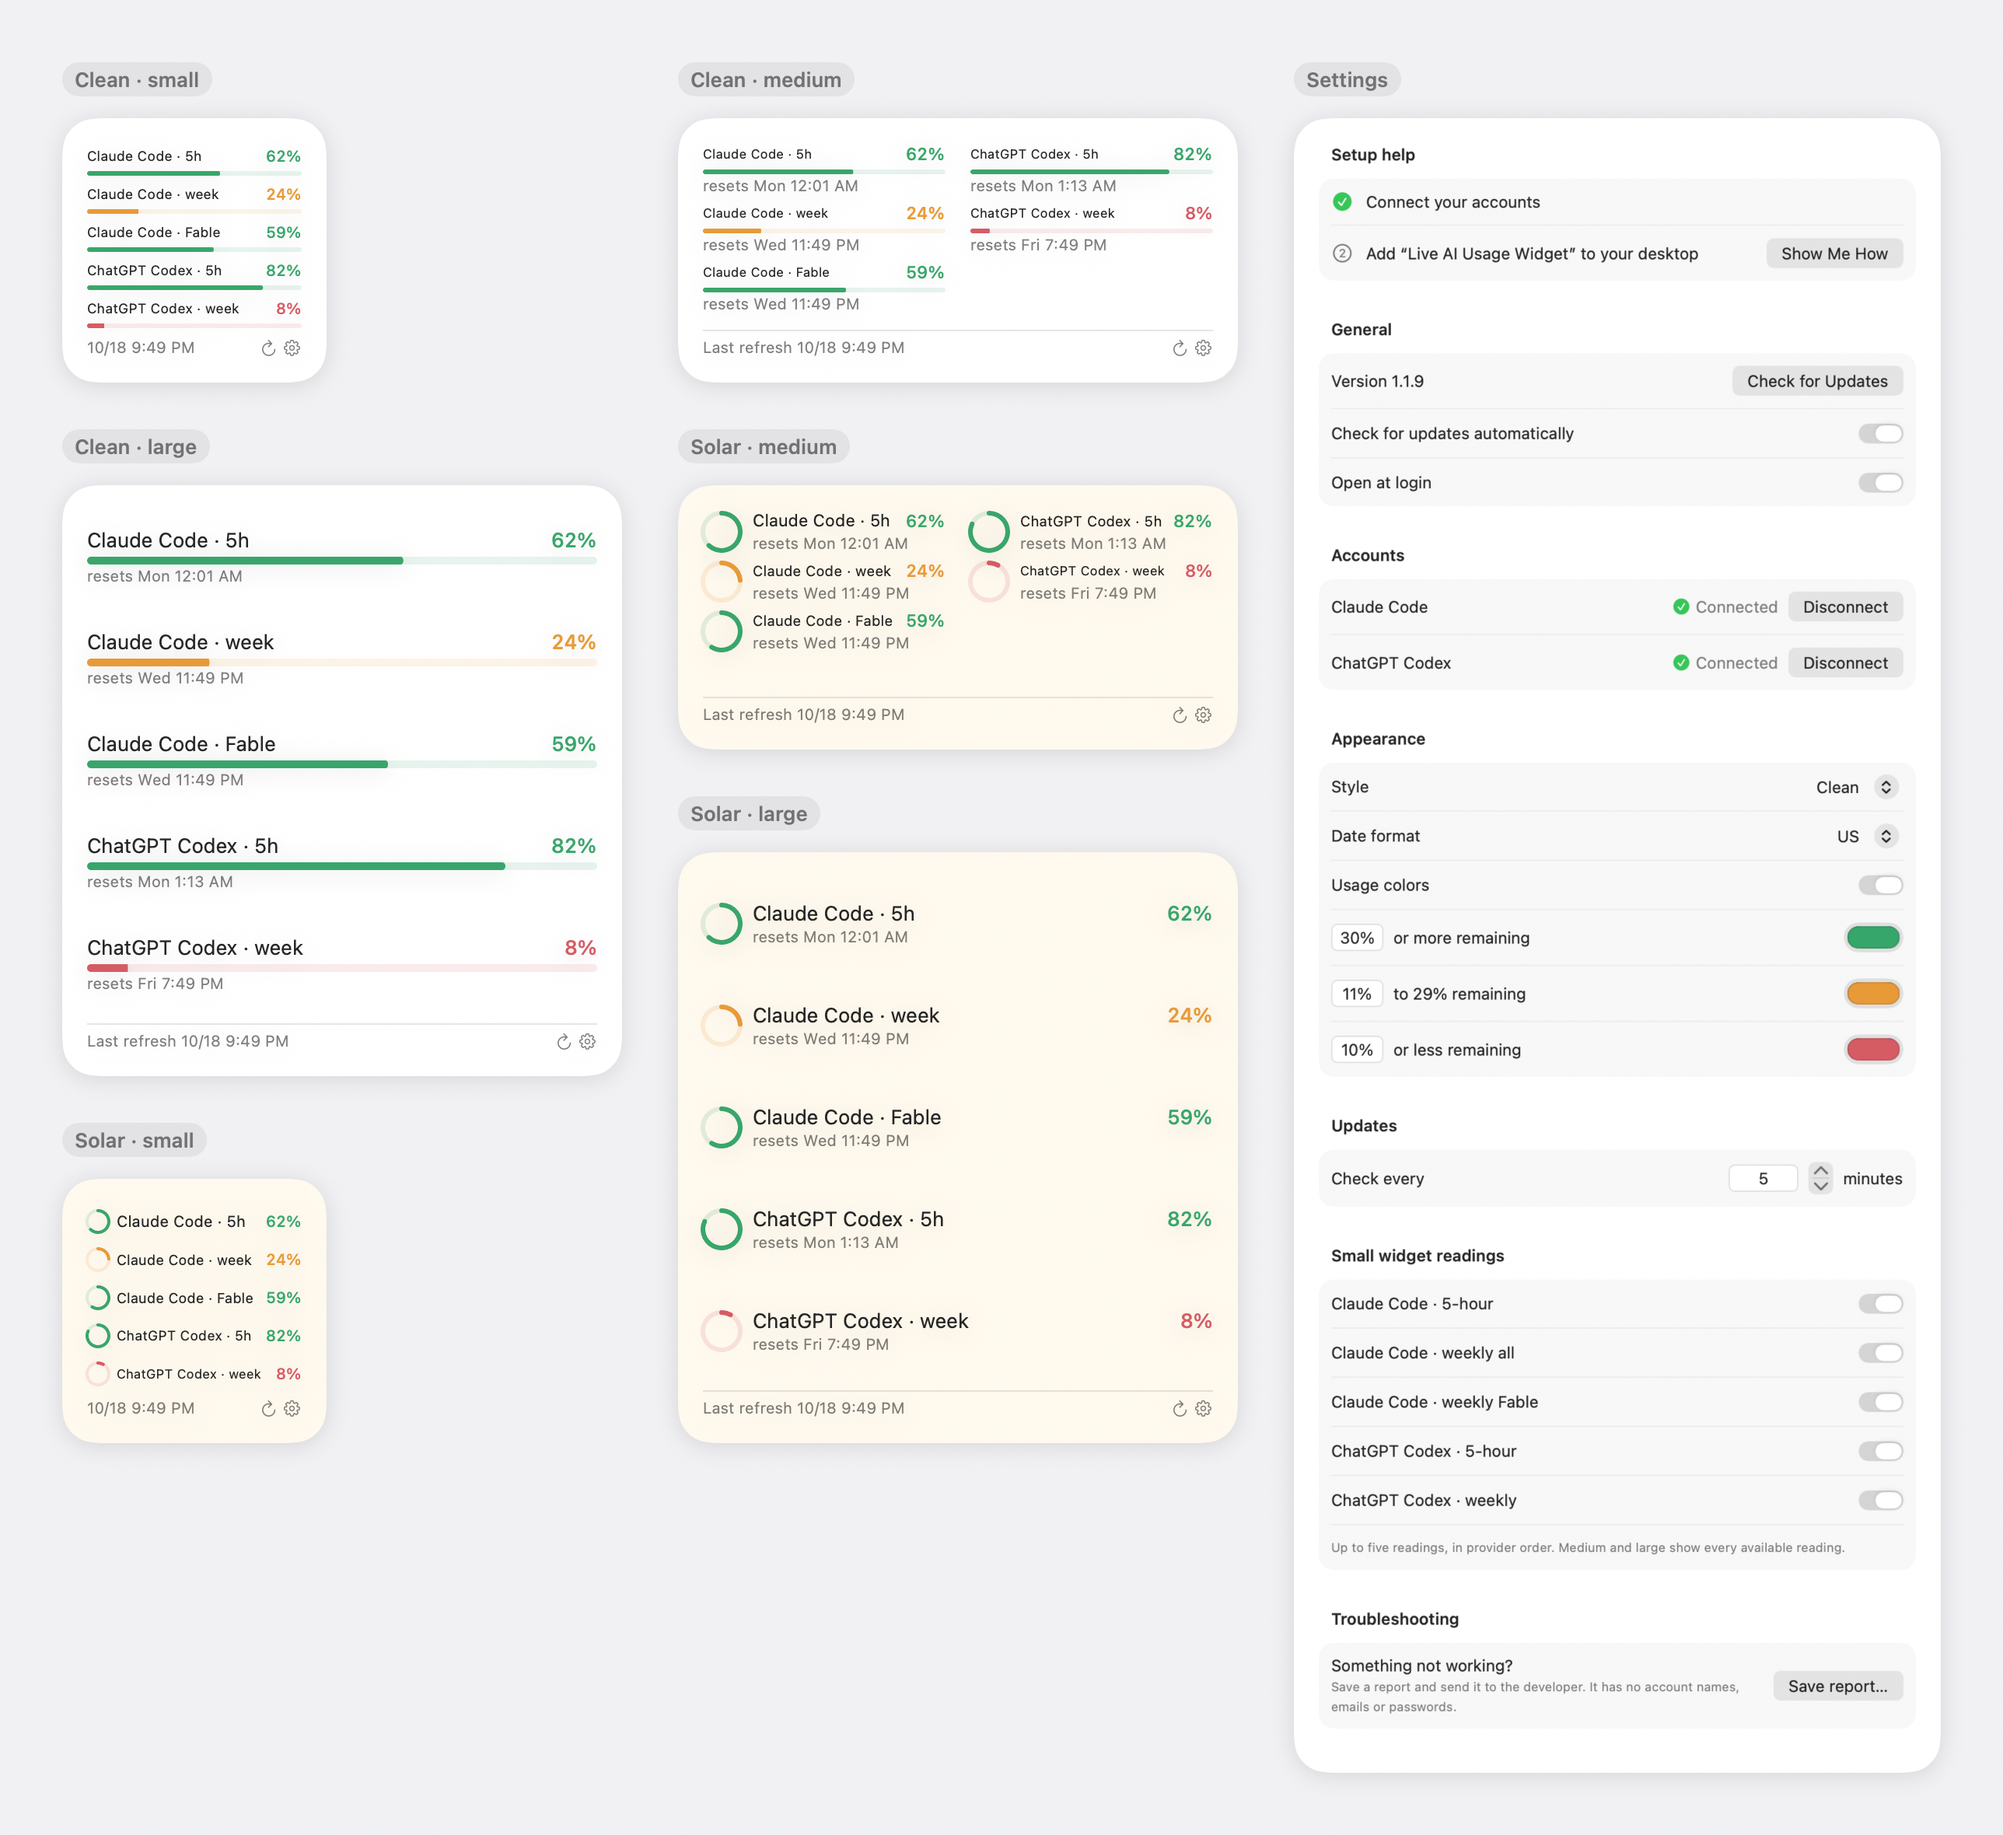
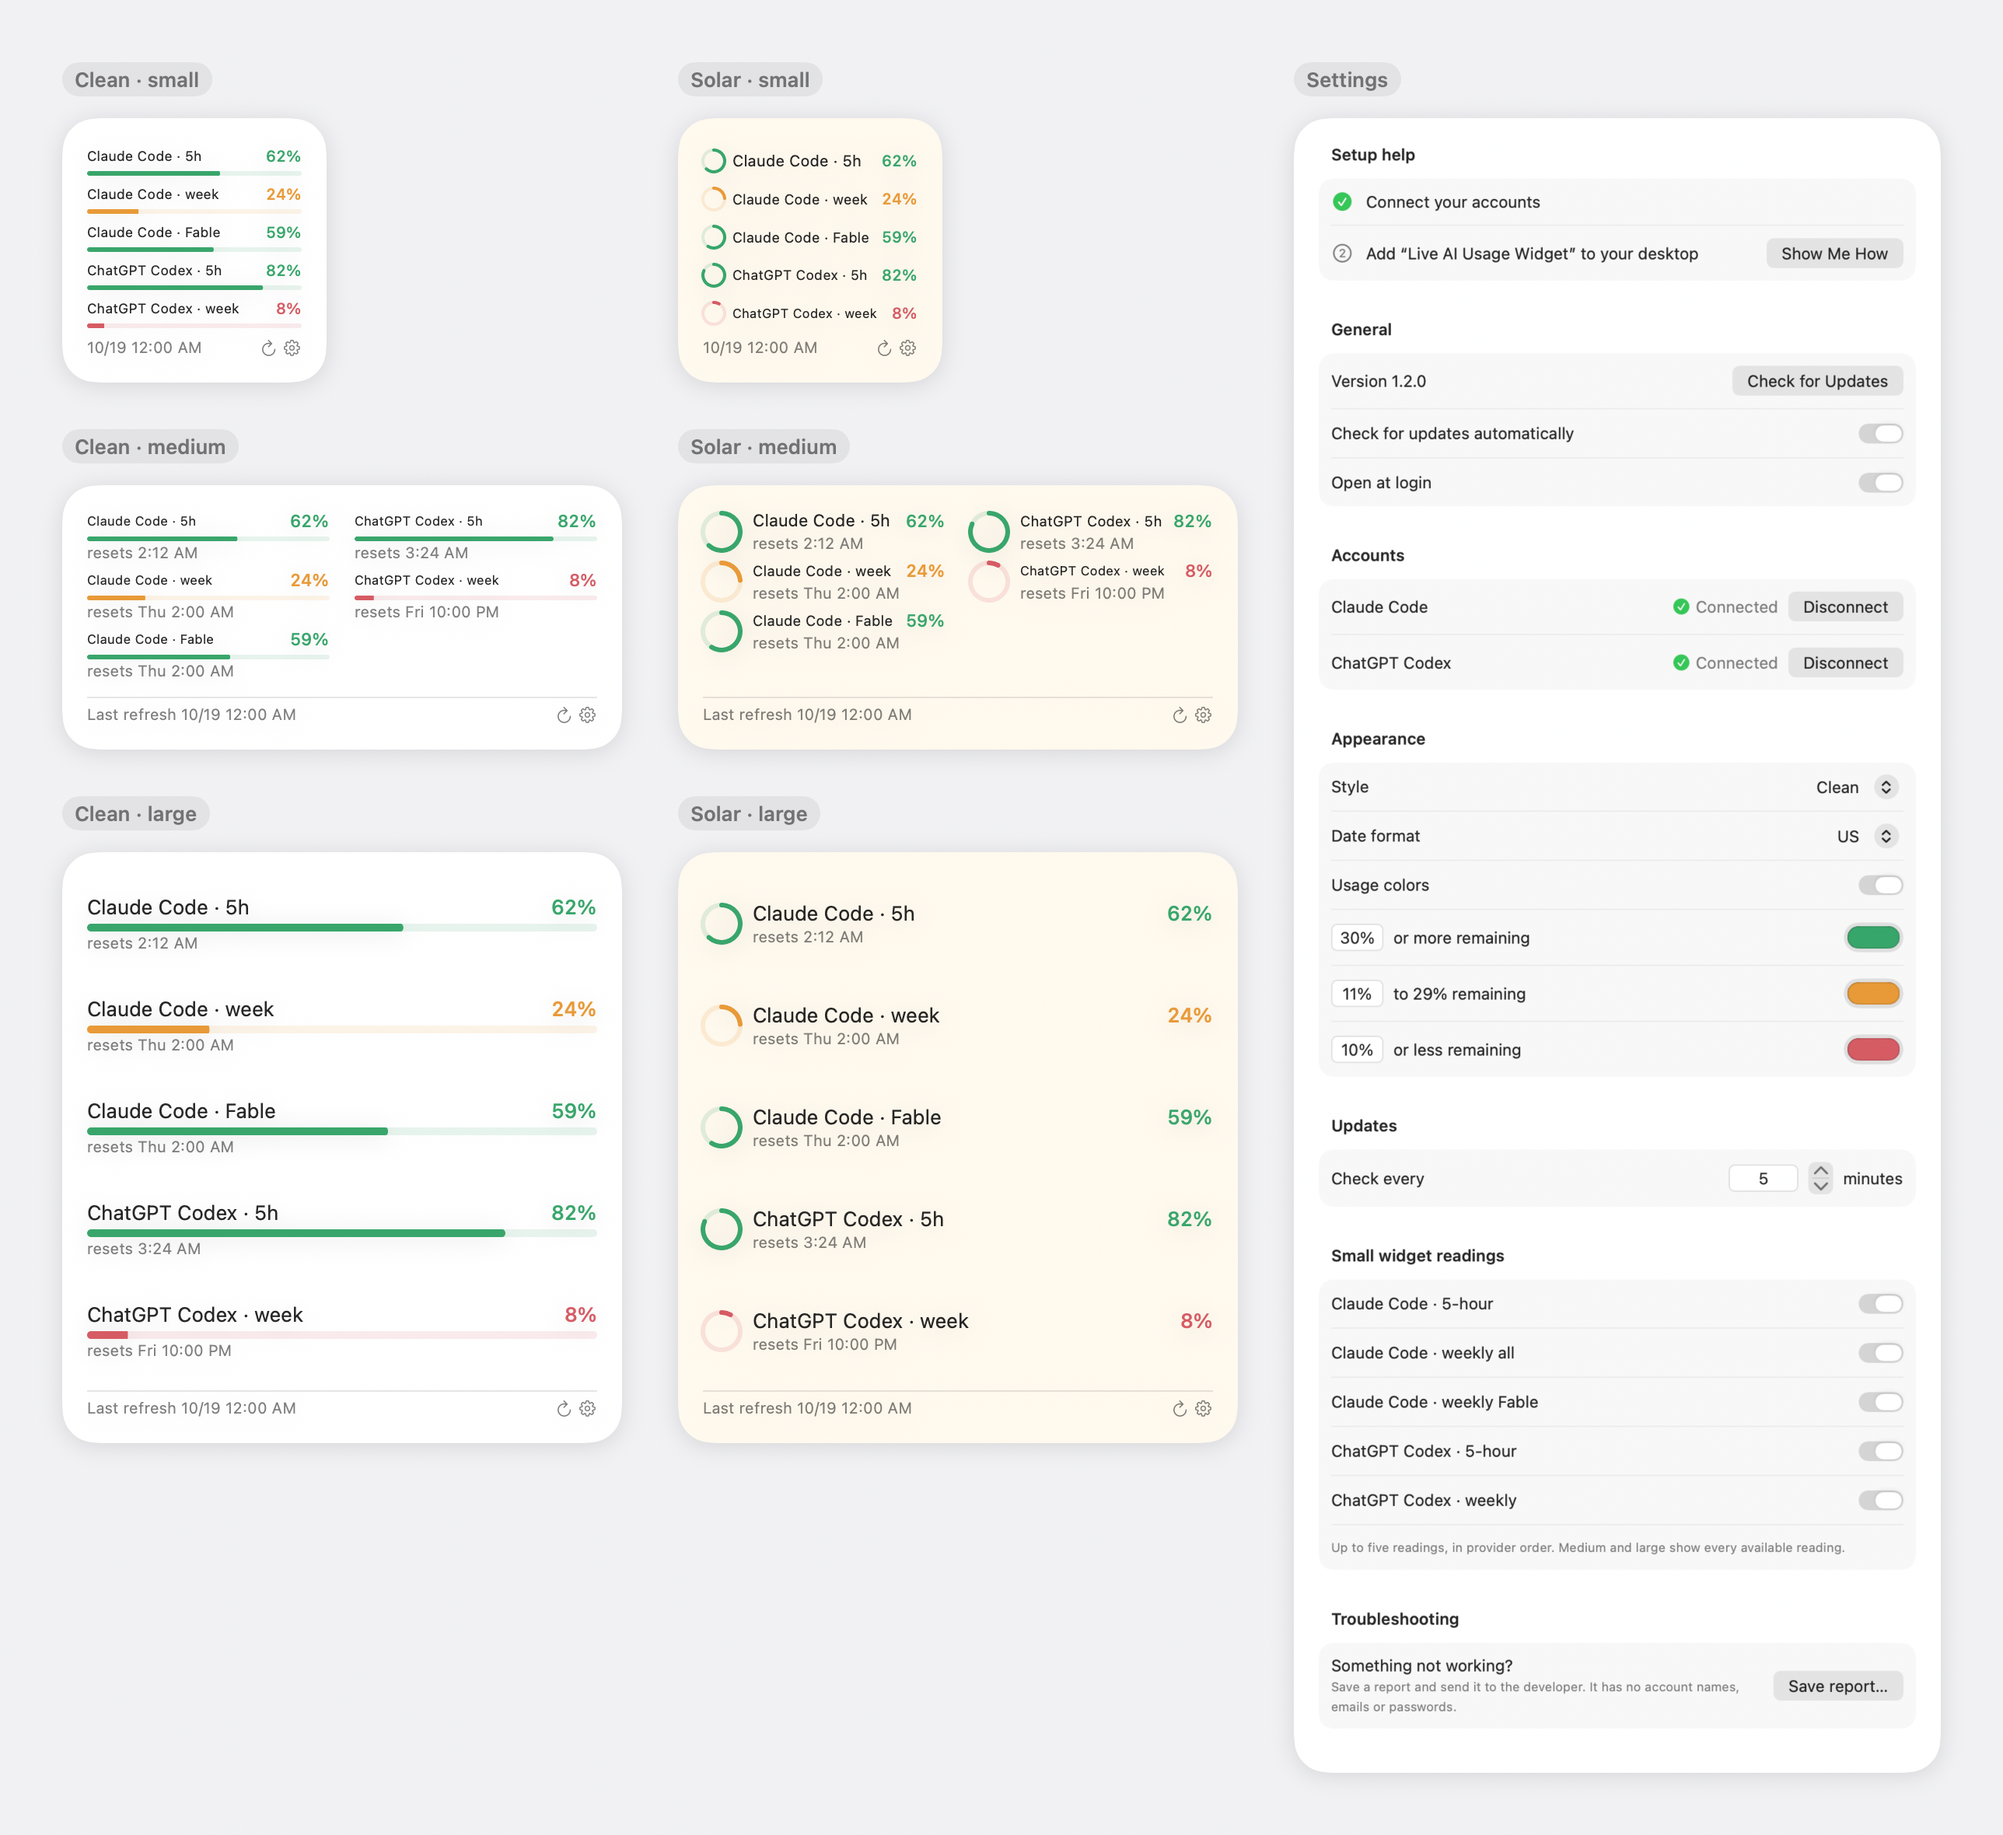
Version 1.2.0: US dates by default; README picture by style

diff --git a/tests/RenderOverview.swift b/tests/RenderOverview.swift
@@ -73,15 +73,13 @@ import SwiftUI
         let settingsImage = NSImage(size: host.bounds.size); settingsImage.addRepresentation(rep)
 
         let page = HStack(alignment: .top, spacing: 36) {
-            VStack(alignment: .leading, spacing: 30) {
-                labeled("Clean · small", widget("clean", "small"))
-                labeled("Clean · large", widget("clean", "large"))
-                labeled("Solar · small", widget("solar", "small"))
-            }.frame(width: 360, alignment: .leading)
-            VStack(alignment: .leading, spacing: 30) {
-                labeled("Clean · medium", widget("clean", "medium"))
-                labeled("Solar · medium", widget("solar", "medium"))
-                labeled("Solar · large", widget("solar", "large"))
+            // One column per style: small, medium, large.
+            ForEach(["Clean", "Solar"], id: \.self) { style in
+                VStack(alignment: .leading, spacing: 30) {
+                    labeled(style + " · small", widget(style.lowercased(), "small"))
+                    labeled(style + " · medium", widget(style.lowercased(), "medium"))
+                    labeled(style + " · large", widget(style.lowercased(), "large"))
+                }.frame(width: 360, alignment: .leading)
             }
             labeled("Settings", Image(nsImage: settingsImage).resizable().frame(width: 520 * 0.8, height: settingsHeight * 0.8).clipShape(RoundedRectangle(cornerRadius: 22, style: .continuous))
                 .shadow(color: .black.opacity(0.12), radius: 8, y: 2))

diff --git a/Shared/Settings.swift b/Shared/Settings.swift
@@ -4,7 +4,7 @@ import SwiftUI
 struct WidgetSettings: Codable, Equatable {
     var enabled: [String] = []
     var generation = "initial"
-    var usDates = false
+    var usDates = true
     var usageColors = true
     var highThreshold = 30.0
     var lowThreshold = 10.0
@@ -22,7 +22,7 @@ struct WidgetSettings: Codable, Equatable {
         let c = try decoder.container(keyedBy: CodingKeys.self)
         enabled = (try c.decodeIfPresent([String].self, forKey: .enabled) ?? []).filter { ["claude", "codex"].contains($0) }
         generation = try c.decodeIfPresent(String.self, forKey: .generation) ?? "initial"
-        usDates = try c.decodeIfPresent(Bool.self, forKey: .usDates) ?? false
+        usDates = try c.decodeIfPresent(Bool.self, forKey: .usDates) ?? true
         usageColors = try c.decodeIfPresent(Bool.self, forKey: .usageColors) ?? true
         highThreshold = try c.decodeIfPresent(Double.self, forKey: .highThreshold) ?? 30
         lowThreshold = try c.decodeIfPresent(Double.self, forKey: .lowThreshold) ?? 10

diff --git a/Helper/Reader.swift b/Helper/Reader.swift
@@ -179,7 +179,7 @@ enum UsageReader {
     static func codex(directory: URL, binary: String? = nil, timeout: Double = 15) throws -> [String: Any] {
         let child = try ChildProcess(binary: binary ?? find("codex"), arguments: ["app-server", "--listen", "stdio://"], directory: directory.path)
         defer { child.stop() }
-        try child.sendJSON(["id": 0, "method": "initialize", "params": ["clientInfo": ["name": "live_ai_usage_widget", "title": "Live AI Usage Widget", "version": "1.1.9"]]])
+        try child.sendJSON(["id": 0, "method": "initialize", "params": ["clientInfo": ["name": "live_ai_usage_widget", "title": "Live AI Usage Widget", "version": "1.2.0"]]])
         let start = ProcessInfo.processInfo.systemUptime
         var pending = Data(), total = 0, initialized = false
         while ProcessInfo.processInfo.systemUptime - start < timeout {

diff --git a/App/UsageApp.swift b/App/UsageApp.swift
@@ -672,7 +672,7 @@ struct SettingsView: View {
                 Picker("Style", selection: $model.settings.style) {
                     Text("Clean").tag("clean"); Text("Solar").tag("solar")
                 }
-                Picker("Date format", selection: $model.settings.usDates) { Text("European").tag(false); Text("US").tag(true) }
+                Picker("Date format", selection: $model.settings.usDates) { Text("US").tag(true); Text("European").tag(false) }
                 Toggle("Usage colors", isOn: $model.settings.usageColors)
                 HStack {
                     percentField(model.settings.highThreshold) { model.settings.highThreshold = min(100, max(model.settings.lowThreshold+1, $0)) }

diff --git a/scripts/build.py b/scripts/build.py
@@ -34,8 +34,8 @@ def main():
     for folder, executable, bundle, kind in [(app, 'UsageWidget', args.bundle_id, 'APPL'),
                                             (extension, 'UsageWidgetExtension', args.bundle_id + '.widget', 'XPC!')]:
         info = dict(CFBundleDisplayName='Live AI Usage Widget', CFBundleName='Live AI Usage Widget', CFBundleExecutable=executable,
-                    CFBundleIdentifier=bundle, CFBundlePackageType=kind, CFBundleVersion='30',
-                    CFBundleShortVersionString='1.1.9', LSMinimumSystemVersion='14.0', UsageAppGroup=group)
+                    CFBundleIdentifier=bundle, CFBundlePackageType=kind, CFBundleVersion='31',
+                    CFBundleShortVersionString='1.2.0', LSMinimumSystemVersion='14.0', UsageAppGroup=group)
         if kind == 'XPC!':
             info['NSExtension'] = {'NSExtensionPointIdentifier': 'com.apple.widgetkit-extension'}
         else:

diff --git a/scripts/package.py b/scripts/package.py
@@ -34,7 +34,7 @@ def main():
         contents[name] = data
     destination = ROOT / 'dist'
     destination.mkdir(exist_ok=True)
-    archive = destination / 'live-ai-usage-widget-1.1.9-source.zip'
+    archive = destination / 'live-ai-usage-widget-1.2.0-source.zip'
     with zipfile.ZipFile(archive, 'w', compression=zipfile.ZIP_DEFLATED) as output:
         for name, data in sorted(contents.items()):
             info = zipfile.ZipInfo('live-ai-usage-widget/' + name, date_time=(2026, 1, 1, 0, 0, 0))

diff --git a/README.md b/README.md
@@ -2,13 +2,13 @@
 
 A macOS desktop widget that shows how much of your Claude Code and ChatGPT Codex usage limits are left. Small, medium and large widgets come in Clean (default) and Solar styles. Accounts and data stay on your own Mac.
 
-**[Download for Mac (Apple Silicon)](https://github.com/jeremymorrison77/live-ai-usage-widget/releases/latest/download/Live-AI-Usage-Widget-1.1.9-macOS-arm64.zip)** · version 1.1.9 · macOS 14 or later · M1 or newer
+**[Download for Mac (Apple Silicon)](https://github.com/jeremymorrison77/live-ai-usage-widget/releases/latest/download/Live-AI-Usage-Widget-1.2.0-macOS-arm64.zip)** · version 1.2.0 · macOS 14 or later · M1 or newer
 
 <p align="center"><img src="docs/images/overview.png" alt="Settings window and the widget in all sizes and styles" width="100%"></p>
 
 Pictures are drawn from the app's own views with made-up sample readings, not a real account.
 
-**Version 1.1.9.** Apple Silicon Macs, macOS 14 or later. Signed and notarized by Apple.
+**Version 1.2.0.** Apple Silicon Macs, macOS 14 or later. Signed and notarized by Apple.
 
 ## Download and install
 

diff --git a/CHANGELOG.md b/CHANGELOG.md
@@ -1,5 +1,9 @@
 # Changelog
 
+## 1.2.0
+
+US dates (10/19 2:00 AM) are the default for new installs; European dates stay available in Settings, and an existing choice is kept. The README picture shows each style in its own column: Clean on the left, Solar in the middle.
+
 ## 1.1.9
 
 Accounts already signed in now connect by themselves after Move to Applications. Before, the first copy (opened from Downloads) marked that step done and then quit for the move before finishing it, so the moved copy showed Connect. Settings buttons are standard Mac buttons at their natural size, without icons, and each account's state (Connected, Connecting…, Not installed, or what went wrong) shows as plain text beside its button.

diff --git a/docs/RELEASE-CHECKLIST.md b/docs/RELEASE-CHECKLIST.md
@@ -1,6 +1,6 @@
 # Release acceptance
 
-Version 1.1.9. A signed, notarized Apple Silicon ZIP is prepared. Notarization establishes Apple's distribution check, not compatibility with every account or Mac.
+Version 1.2.0. A signed, notarized Apple Silicon ZIP is prepared. Notarization establishes Apple's distribution check, not compatibility with every account or Mac.
 
 ## Verified locally
 
